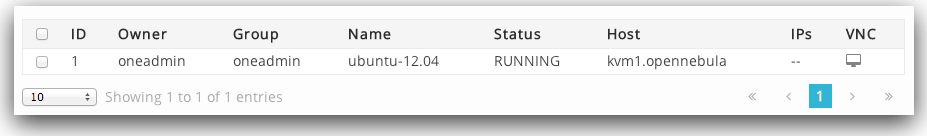
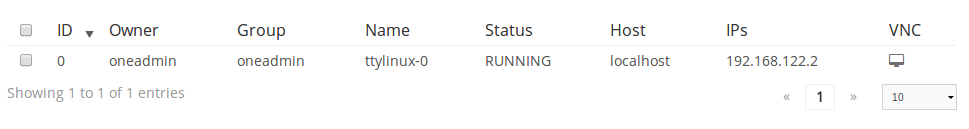
update vnc screenshots

diff --git a/source/user/virtual_resource_management/vm_guide_2.rst b/source/user/virtual_resource_management/vm_guide_2.rst
@@ -566,4 +566,4 @@ Information for Developers and Integrators
 .. |image5| image:: /images/sunstone_vm_resize.png
 .. |image6| image:: /images/sunstone_vm_list.png
 .. |image7| image:: /images/sunstone_vnc.png
-.. |image8| image:: /images/sunstone_vm_list.png
+.. |image8| image:: /images/sunstonevnc4.png
